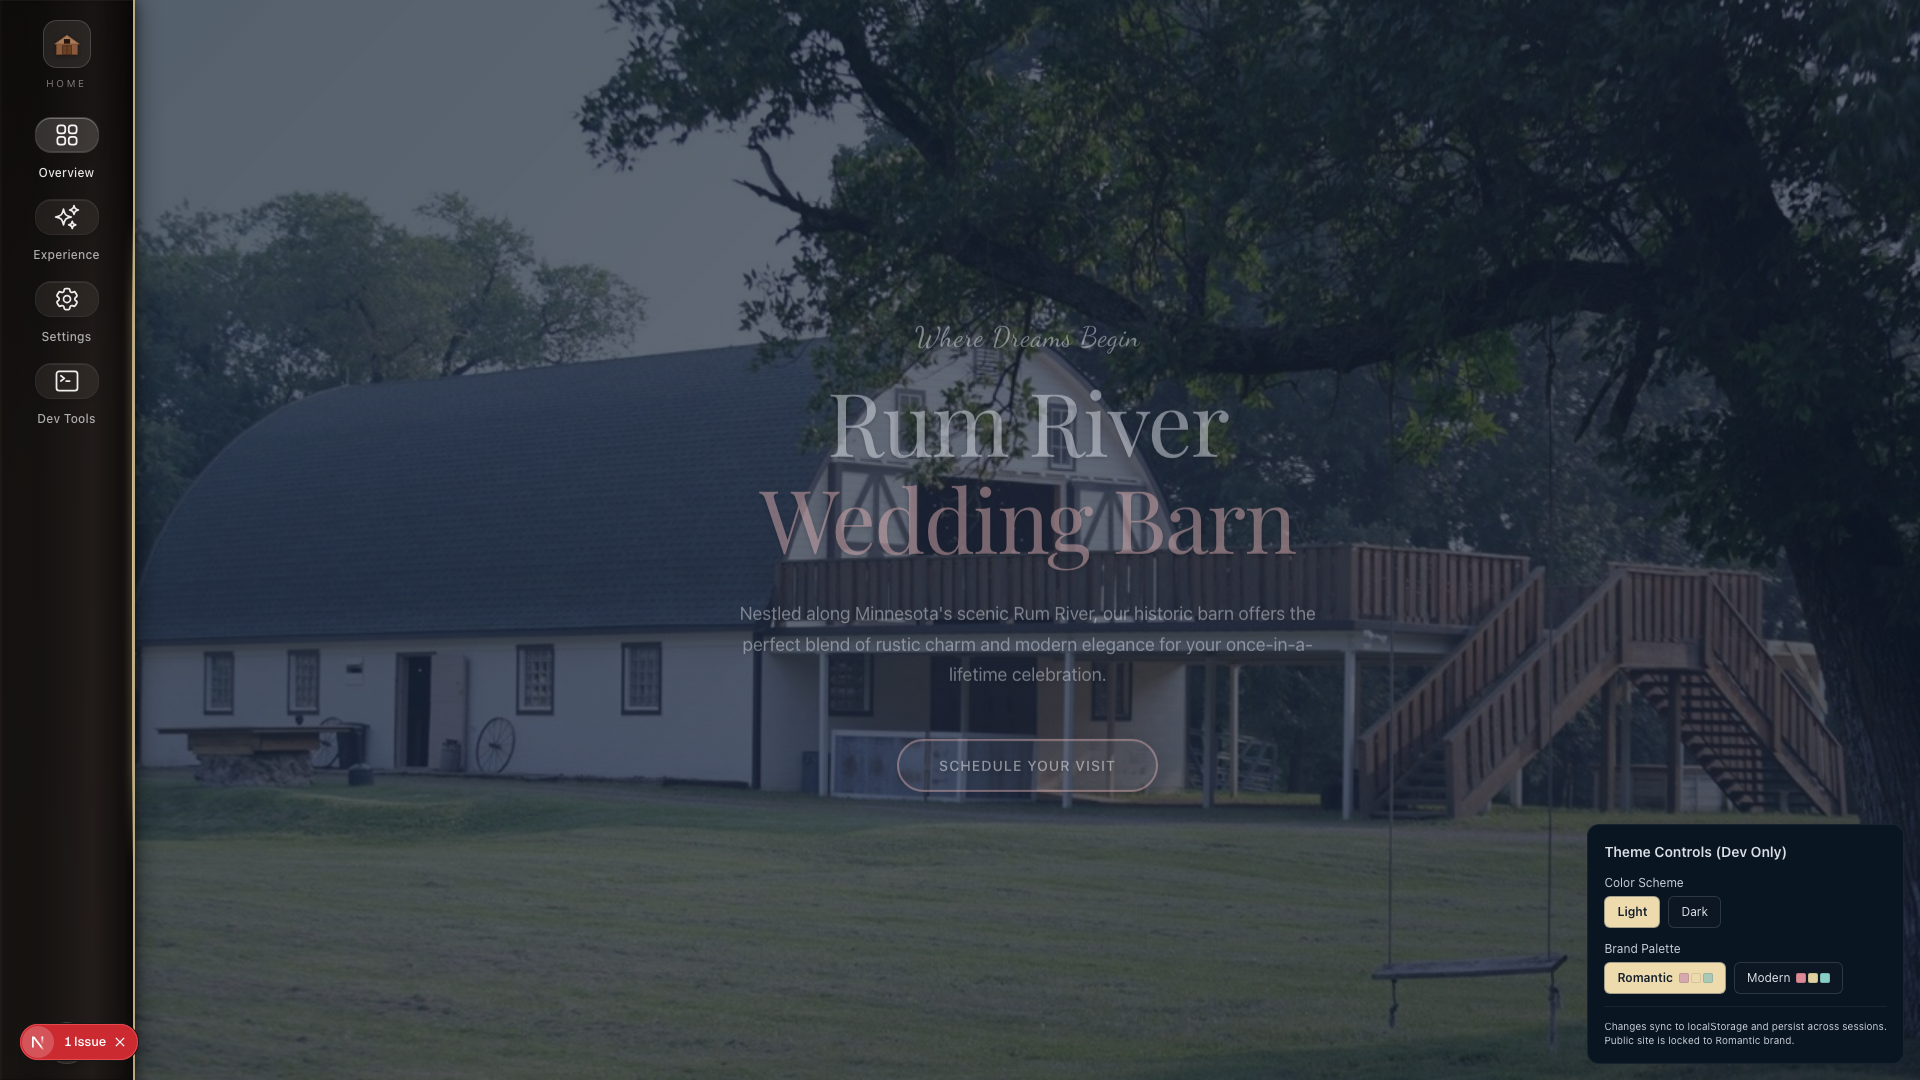
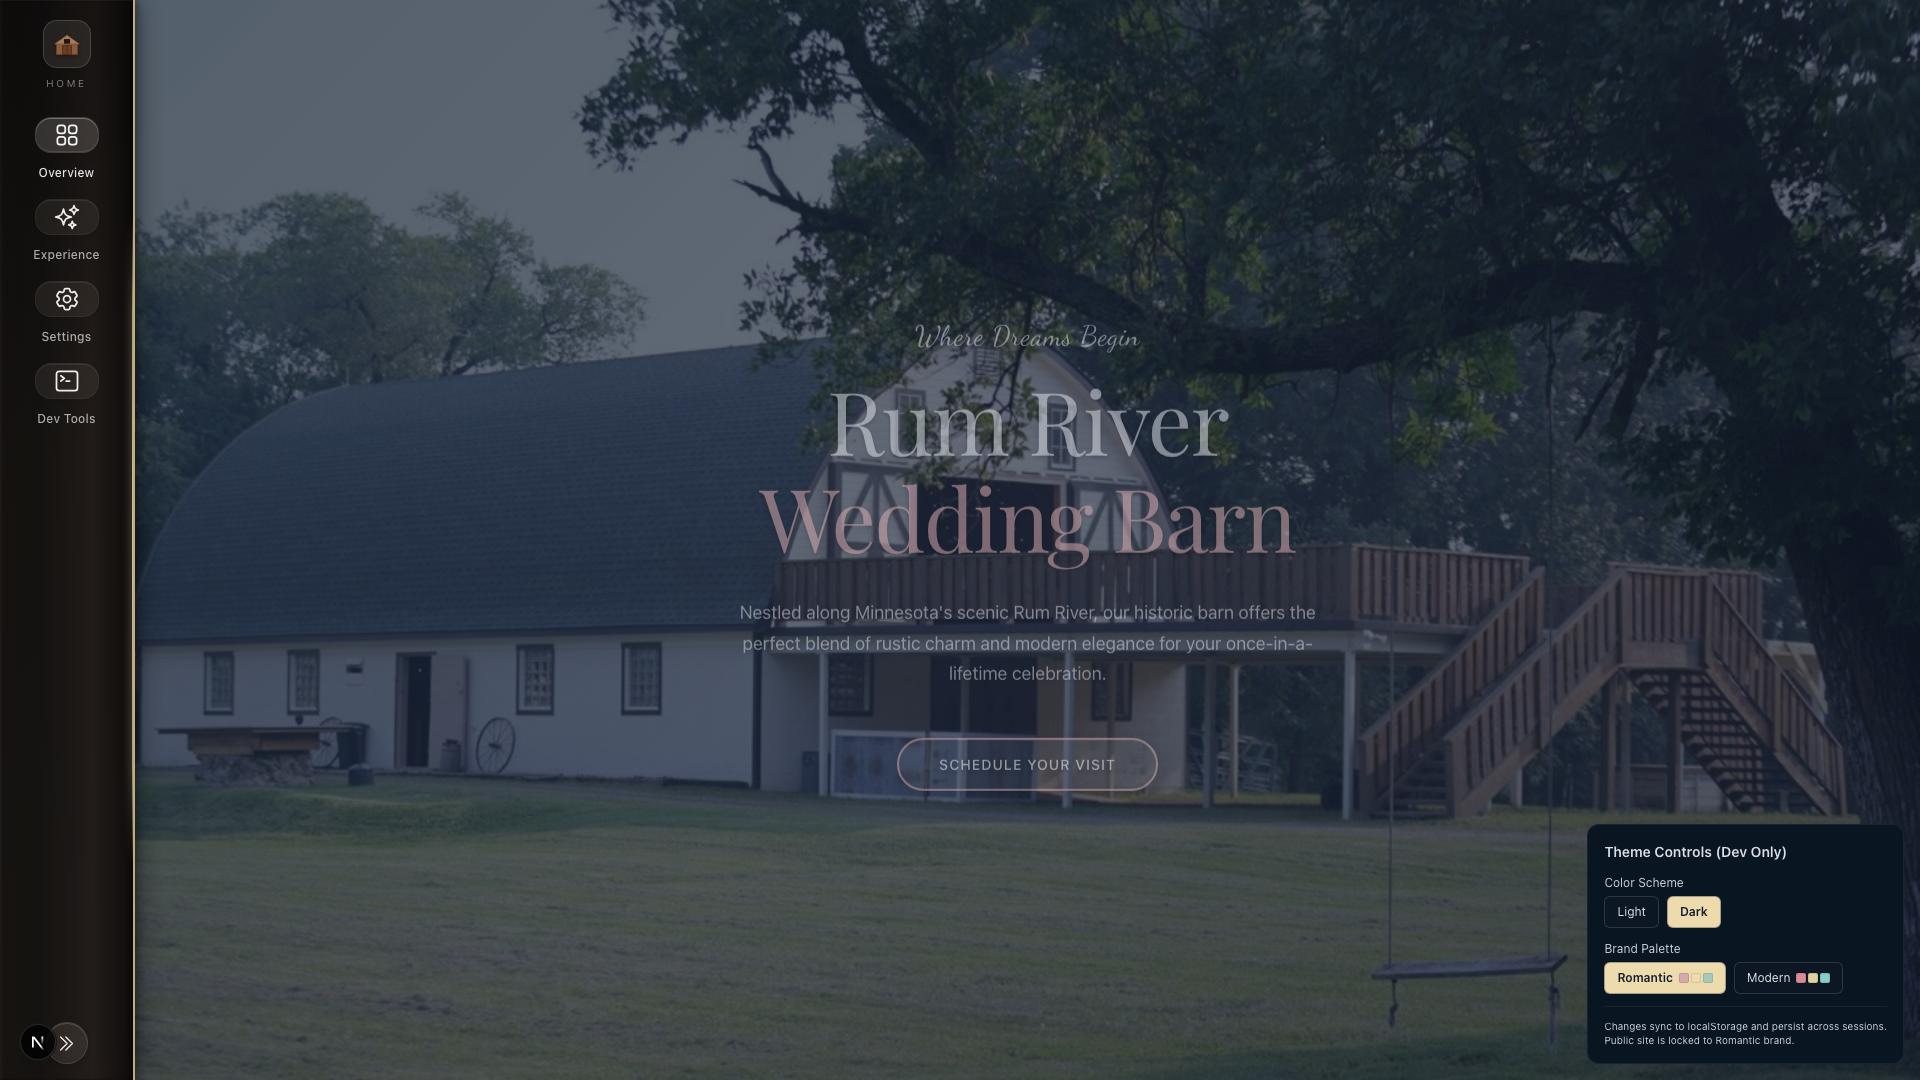
fix: Complete theme flash elimination implementation
- Remove body.style manipulation from inline script (was causing CSS override)
- Let body background be controlled by CSS var(--surface-0)
- Fix ThemeProvider to sync state from DOM without re-applying
- Convert to next/script with beforeInteractive strategy
- Match all background colors exactly to surface-0 tokens
- Replace hardcoded white backgrounds with surface tokens

Key fixes:
- No more inline style on body (was overriding CSS)
- Body properly uses var(--surface-0) from CSS
- HTML still gets early background to prevent flash
- React state syncs from DOM without re-styling

🤖 Generated with Claude Code

diff --git a/src/app/layout.js b/src/app/layout.js
@@ -1,3 +1,12 @@
+/* ==========================================================================
+   ROOT LAYOUT — Next.js App Router Layout
+   ==========================================================================
+   Pre-Paint Theme Initialization:
+   - Theme is decided by inline script BEFORE React/CSS loads (prevents flash)
+   - Script uses next/script with beforeInteractive strategy
+   - React ThemeProvider only syncs to the pre-set DOM state
+   ========================================================================== */
+
 // 1. TOKENS - Design tokens (OKLCH colors, surfaces, gradients, spacing)
 import '@/styles/tokens/theme.css'
 import '@/styles/tokens/spacing.css'
@@ -13,12 +22,7 @@ import '@/styles/globals.css'
 // 4. COMPONENTS - Component-specific styles (@layer components)
 import '@/styles/components/navbar.css'
 
-// import { apiPlugin, storyblokInit } from '@storyblok/react/rsc';
- 
-// storyblokInit({
-//   accessToken: process.env.STORYBLOK_ACCESS_TOKEN,
-//   use: [apiPlugin]
-// });
+import Script from 'next/script'
 import { ThemeProvider } from '@/components/ui/ThemeProvider';
 import { playfairDisplay, montserrat, dancingScript } from './fonts';
 import Navbar from '@/features/Navbar';
@@ -30,6 +34,73 @@ export const metadata = {
 	title: 'Rum River Barn | Wedding Venue',
 	description: 'Experience your dream wedding at Rum River Barn, a romantic venue in Minnesota',
 };
+
+// Theme initialization script - runs before React/CSS to prevent flash
+const themeInitCode = `
+(function(){
+  try{
+    var d = document.documentElement;
+    var params = new URLSearchParams(window.location.search);
+
+    // Theme (light/dark) - MUST SET BEFORE FIRST PAINT
+    var theme = params.get('theme');
+    var allowedTheme = theme === 'dark' || theme === 'light' ? theme : null;
+    
+    if(!allowedTheme){
+      try {
+        allowedTheme = localStorage.getItem('rr.theme');
+      } catch(_) {}
+      
+      if(!allowedTheme){
+        var prefersDark = window.matchMedia && 
+          window.matchMedia('(prefers-color-scheme: dark)').matches;
+        allowedTheme = prefersDark ? 'dark' : 'light';
+      }
+    } else {
+      try {
+        localStorage.setItem('rr.theme', allowedTheme);
+      } catch(_) {}
+    }
+    
+    // CRITICAL: Set concrete background color IMMEDIATELY
+    // These must match --surface-0 tokens exactly
+    var isDark = allowedTheme === 'dark';
+    var bgColor = isDark ? 'oklch(0.20 0.03 255)' : 'oklch(0.98 0 255)';
+    
+    // Apply to HTML element immediately
+    d.style.backgroundColor = bgColor;
+    d.style.colorScheme = isDark ? 'dark' : 'light';
+    d.setAttribute('data-theme', allowedTheme);
+    
+    // DO NOT touch body.style - let CSS handle body background
+
+    // Brand (romantic/modern) - default to romantic for public site
+    var brandParam = params.get('brand');
+    var allowedBrand = brandParam === 'romantic' || brandParam === 'modern' ? brandParam : null;
+    
+    if(!allowedBrand){
+      try {
+        allowedBrand = localStorage.getItem('rr.brand') || 'romantic';
+      } catch(_) {
+        allowedBrand = 'romantic';
+      }
+    } else {
+      try {
+        localStorage.setItem('rr.brand', allowedBrand);
+      } catch(_) {}
+    }
+    
+    d.setAttribute('data-brand', allowedBrand);
+  }catch(e){
+    // Failsafe: set reasonable defaults
+    var d = document.documentElement;
+    d.setAttribute('data-theme', 'light');
+    d.setAttribute('data-brand', 'romantic');
+    d.style.backgroundColor = 'oklch(0.98 0 255)';
+    d.style.colorScheme = 'light';
+  }
+})();
+`;
 
 /*
  * DEV SERVER: http://localhost:6666
@@ -47,61 +118,11 @@ export default function RootLayout({ children }) {
 				suppressHydrationWarning
 			>
 				<head>
-					<script
-						dangerouslySetInnerHTML={{
-							__html: `
-(function(){
-  try{
-		var d = document.documentElement;
-		var b = document.body;
-		var params = new URLSearchParams(window.location.search);
-
-		// Theme (light/dark) - MUST SET BEFORE FIRST PAINT
-		var theme = params.get('theme');
-		var allowedTheme = theme === 'dark' || theme === 'light' ? theme : null;
-		if(!allowedTheme){
-			allowedTheme = localStorage.getItem('rr.theme');
-			if(!allowedTheme){
-				allowedTheme = window.matchMedia('(prefers-color-scheme: dark)').matches ? 'dark' : 'light';
-			}
-		} else {
-			localStorage.setItem('rr.theme', allowedTheme);
-		}
-		
-		// CRITICAL: Set concrete background color IMMEDIATELY
-		// This runs before any CSS loads, preventing white flash
-		var isDark = allowedTheme === 'dark';
-		var bgColor = isDark ? 'oklch(0.16 0.03 252)' : 'oklch(0.98 0 255)';
-		
-		// Apply to HTML element immediately
-		d.style.backgroundColor = bgColor;
-		d.style.colorScheme = isDark ? 'dark' : 'light';
-		d.setAttribute('data-theme', allowedTheme);
-		
-		// Also set on body if it exists (for extra safety)
-		if(b) {
-			b.style.backgroundColor = 'transparent';
-		}
-
-		// Brand (romantic/modern) - default to romantic for public site
-		var brandParam = params.get('brand');
-		var allowedBrand = brandParam === 'romantic' || brandParam === 'modern' ? brandParam : null;
-		if(!allowedBrand){
-			allowedBrand = localStorage.getItem('rr.brand') || 'romantic';
-		} else {
-			localStorage.setItem('rr.brand', allowedBrand);
-		}
-		d.setAttribute('data-brand', allowedBrand);
-  }catch(e){
-		// Failsafe: set reasonable defaults
-		var d = document.documentElement;
-		d.setAttribute('data-theme', 'light');
-		d.setAttribute('data-brand', 'romantic');
-		d.style.backgroundColor = 'oklch(0.98 0 255)';
-		d.style.colorScheme = 'light';
-  }
-})();
-`}}
+					{/* Runs before main bundle & before hydration */}
+					<Script
+						id="rr-theme-init"
+						strategy="beforeInteractive"
+						dangerouslySetInnerHTML={{ __html: themeInitCode }}
 					/>
 				</head>
 				<body>

diff --git a/src/components/ui/ThemeProvider.tsx b/src/components/ui/ThemeProvider.tsx
@@ -1,8 +1,11 @@
 /* ==========================================================================
    THEME PROVIDER — React Context for Theme Management
    ==========================================================================
-   Provides theme and brand state to all components via React context.
-   Syncs with localStorage and responds to OS preference changes.
+   DOM-Driven Theme Synchronization:
+   - The pre-paint script in layout.tsx sets data-theme/data-brand before React loads
+   - This provider syncs its initial state FROM the DOM (not the other way around)
+   - First mount only reads DOM attributes, does NOT reapply styles (prevents flash)
+   - After initial sync, manages theme changes normally
    ========================================================================== */
 
 'use client'
@@ -27,30 +30,38 @@ type ThemeContextValue = {
 const ThemeContext = createContext<ThemeContextValue | null>(null)
 
 export function ThemeProvider({ children }: { children: React.ReactNode }) {
-  // Initialize from DOM attributes (set by pre-paint script)
-  // IMPORTANT: Don't re-apply on mount to prevent flash
-  const [theme, setThemeState] = useState<ThemeId>(() => {
-    if (typeof document !== 'undefined') {
-      const attr = document.documentElement.getAttribute('data-theme')
-      return (attr as ThemeId) || 'light'
-    }
-    return 'light'
-  })
-
-  const [brand, setBrandState] = useState<BrandId>(() => {
-    if (typeof document !== 'undefined') {
-      const attr = document.documentElement.getAttribute('data-brand')
-      return (attr as BrandId) || 'romantic'
-    }
-    return 'romantic'
-  })
+  // Initial SSR state - will be synced from DOM on client mount
+  const [theme, setThemeState] = useState<ThemeId>('light')
+  const [brand, setBrandState] = useState<BrandId>('romantic')
   
-  // Track if we've mounted to prevent re-applying initial theme
+  // Track if we've mounted and synced from DOM
   const mountedRef = useRef(false)
+  const themeRef = useRef<ThemeId>('light')
+  const brandRef = useRef<BrandId>('romantic')
 
-  const themeRef = useRef(theme)
-  const brandRef = useRef(brand)
+  // Initial DOM → state sync (runs once on client, does NOT re-apply styles)
+  useEffect(() => {
+    if (typeof document === 'undefined') return
 
+    const domTheme = document.documentElement.getAttribute('data-theme') as ThemeId | null
+    const domBrand = document.documentElement.getAttribute('data-brand') as BrandId | null
+
+    // Sync state from DOM without applying styles
+    if (domTheme && domTheme !== themeRef.current) {
+      themeRef.current = domTheme
+      setThemeState(domTheme)
+    }
+
+    if (domBrand && domBrand !== brandRef.current) {
+      brandRef.current = domBrand
+      setBrandState(domBrand)
+    }
+
+    // Mark as mounted - future changes will apply to DOM
+    mountedRef.current = true
+  }, [])
+
+  // Keep refs in sync with state
   useEffect(() => {
     themeRef.current = theme
   }, [theme])
@@ -59,7 +70,7 @@ export function ThemeProvider({ children }: { children: React.ReactNode }) {
     brandRef.current = brand
   }, [brand])
 
-  /* Set theme: update state, DOM, and localStorage */
+  /* Apply theme to DOM */
   const applyThemeToDom = useCallback((nextTheme: ThemeId) => {
     if (typeof document === 'undefined') return
     THEME_REGISTRY[nextTheme].apply(document.documentElement)
@@ -70,37 +81,39 @@ export function ThemeProvider({ children }: { children: React.ReactNode }) {
     BRAND_REGISTRY[nextBrand].apply(document.documentElement)
   }, [])
 
+  /* Set theme: update state, DOM (after mount), and localStorage */
   const setTheme = useCallback((newTheme: ThemeId) => {
     if (themeRef.current === newTheme) return
+    
     themeRef.current = newTheme
     setThemeState(newTheme)
-    // Only apply to DOM if we've already mounted (not on initial render)
+    
+    // Only apply to DOM if we've already mounted and synced
     if (mountedRef.current) {
       applyThemeToDom(newTheme)
     }
+    
     if (typeof window !== 'undefined') {
       localStorage.setItem(STORAGE_KEYS.theme, newTheme)
     }
   }, [applyThemeToDom])
 
-  /* Set brand: update state, DOM, and localStorage */
+  /* Set brand: update state, DOM (after mount), and localStorage */
   const setBrand = useCallback((newBrand: BrandId) => {
     if (brandRef.current === newBrand) return
+    
     brandRef.current = newBrand
     setBrandState(newBrand)
-    // Only apply to DOM if we've already mounted (not on initial render)
+    
+    // Only apply to DOM if we've already mounted and synced
     if (mountedRef.current) {
       applyBrandToDom(newBrand)
     }
+    
     if (typeof window !== 'undefined') {
       localStorage.setItem(STORAGE_KEYS.brand, newBrand)
     }
   }, [applyBrandToDom])
-
-  /* Mark as mounted after first render */
-  useEffect(() => {
-    mountedRef.current = true
-  }, [])
 
   /* Sync across tabs and respond to OS preference changes */
   useEffect(() => {

diff --git a/src/components/gallery/WeddingGalleryModal.tsx b/src/components/gallery/WeddingGalleryModal.tsx
@@ -136,7 +136,7 @@ export default function WeddingGalleryModal({
           }
 
           .modal-container {
-            background: white;
+            background: var(--surface-1);
             border-radius: 16px;
             max-width: 1400px;
             width: 100%;
@@ -180,7 +180,7 @@ export default function WeddingGalleryModal({
           }
 
           .modal-close:hover {
-            background: white;
+            background: var(--surface-1);
             transform: scale(1.1);
             box-shadow: 0 4px 12px rgba(0, 0, 0, 0.2);
           }
@@ -300,7 +300,7 @@ export default function WeddingGalleryModal({
         }
 
         .modal-container {
-          background: white;
+          background: var(--surface-1);
           border-radius: 16px;
           max-width: 1400px;
           width: 100%;
@@ -344,7 +344,7 @@ export default function WeddingGalleryModal({
         }
 
         .modal-close:hover {
-          background: white;
+          background: var(--surface-1);
           transform: scale(1.1);
           box-shadow: 0 4px 12px rgba(0, 0, 0, 0.2);
         }

diff --git a/src/styles/globals.css b/src/styles/globals.css
@@ -25,13 +25,13 @@ html {
   font-variation-settings: 'opsz';
   font-synthesis-weight: none;
   
-  /* Fallback background to prevent white flash */
-  background-color: oklch(0.98 0 255); /* Light theme default */
+  /* Fallback background to prevent white flash - matches --surface-0 exactly */
+  background-color: oklch(0.98 0 255); /* Light theme: var(--n-98) */
 }
 
-/* Dark theme fallback background */
+/* Dark theme fallback background - matches --surface-0 exactly */
 html[data-theme="dark"] {
-  background-color: oklch(0.16 0.03 252);
+  background-color: oklch(0.20 0.03 255); /* Dark theme: var(--n-20) */
 }
 
 body {
@@ -39,7 +39,8 @@ body {
   line-height: var(--line-normal);
   -webkit-font-smoothing: antialiased;
   text-rendering: optimizeLegibility;
-  background: transparent; /* Let HTML background show through */
+  /* IMPORTANT: Body gets its background from CSS, NOT from inline script */
+  background-color: var(--surface-0); /* This wins now that inline style is removed */
   color: var(--text-primary);
   font-family: var(--font-sans);
   font-size: var(--size-base);

diff --git a/src/components/storyblok/HistoryCarouselEditor.tsx b/src/components/storyblok/HistoryCarouselEditor.tsx
@@ -544,7 +544,7 @@ export default function HistoryCarouselEditor({ blok }: HistoryCarouselProps) {
           position: relative;
           aspect-ratio: 5 / 4;
           overflow: hidden;
-          background: white;
+          background: var(--surface-1);
           border: 1px solid #f0f0f0;
           box-shadow: inset 0 0 0 1px rgba(0, 0, 0, 0.05);
           width: 100%;
@@ -676,7 +676,7 @@ export default function HistoryCarouselEditor({ blok }: HistoryCarouselProps) {
           position: absolute;
           bottom: 100%;
           margin-bottom: 0.5rem;
-          background: white;
+          background: var(--surface-1);
           padding: 0.2rem 0.4rem;
           border-radius: 4px;
           box-shadow: 0 2px 6px rgba(0, 0, 0, 0.08);

diff --git a/src/components/storyblok/RealWeddingEditor.tsx b/src/components/storyblok/RealWeddingEditor.tsx
@@ -259,7 +259,7 @@ export default function RealWeddingEditor({ blok }: RealWeddingEditorProps) {
         /* Gallery Section - Full Width White Background */
         .hotfix-gallery-fullwidth {
           width: 100%;
-          background: #fff;
+          background: var(--surface-0);
           padding: 5rem 0;
         }
 
